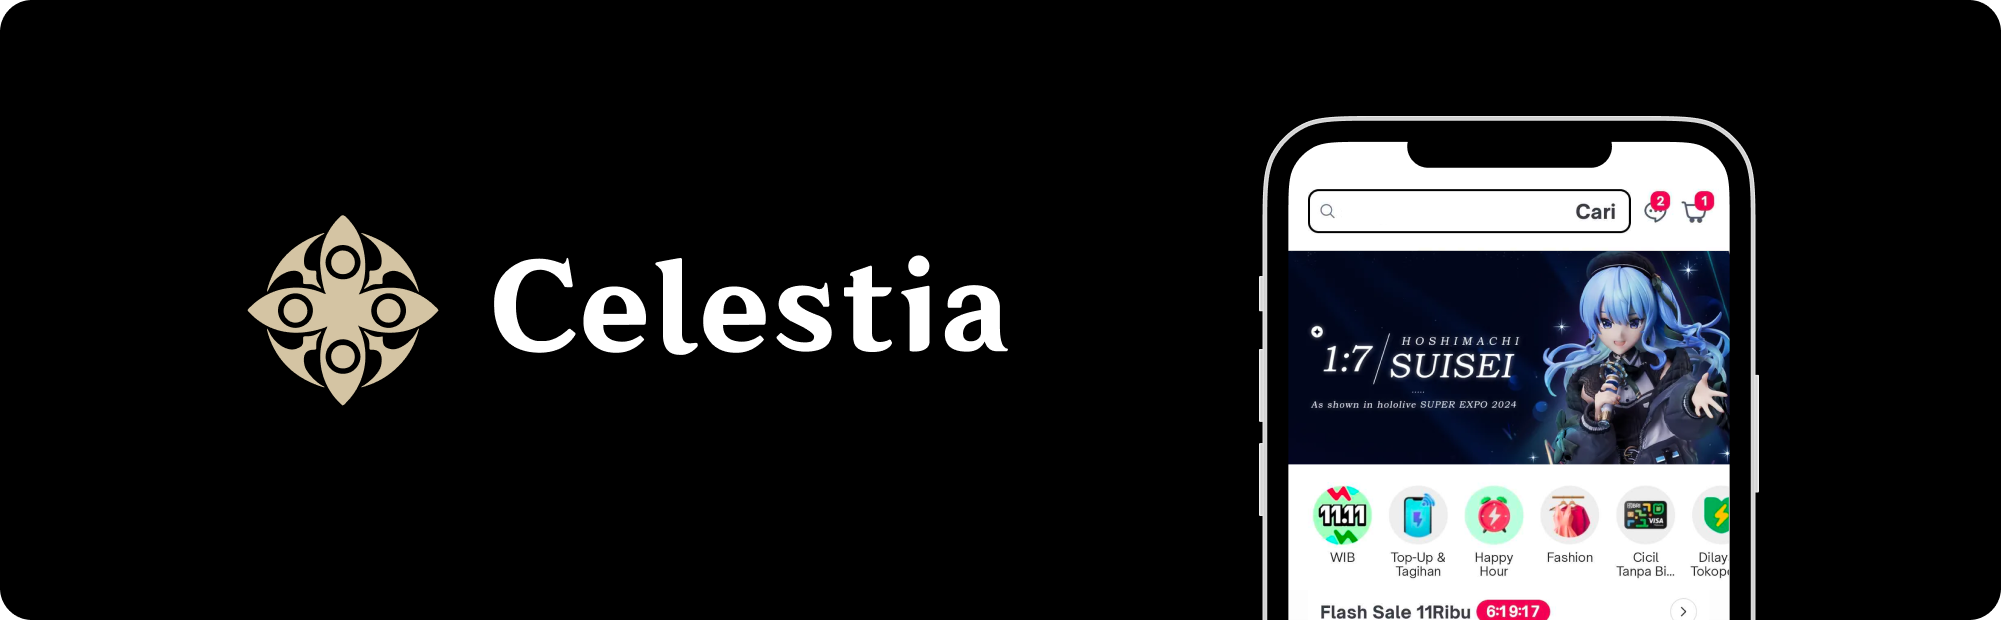
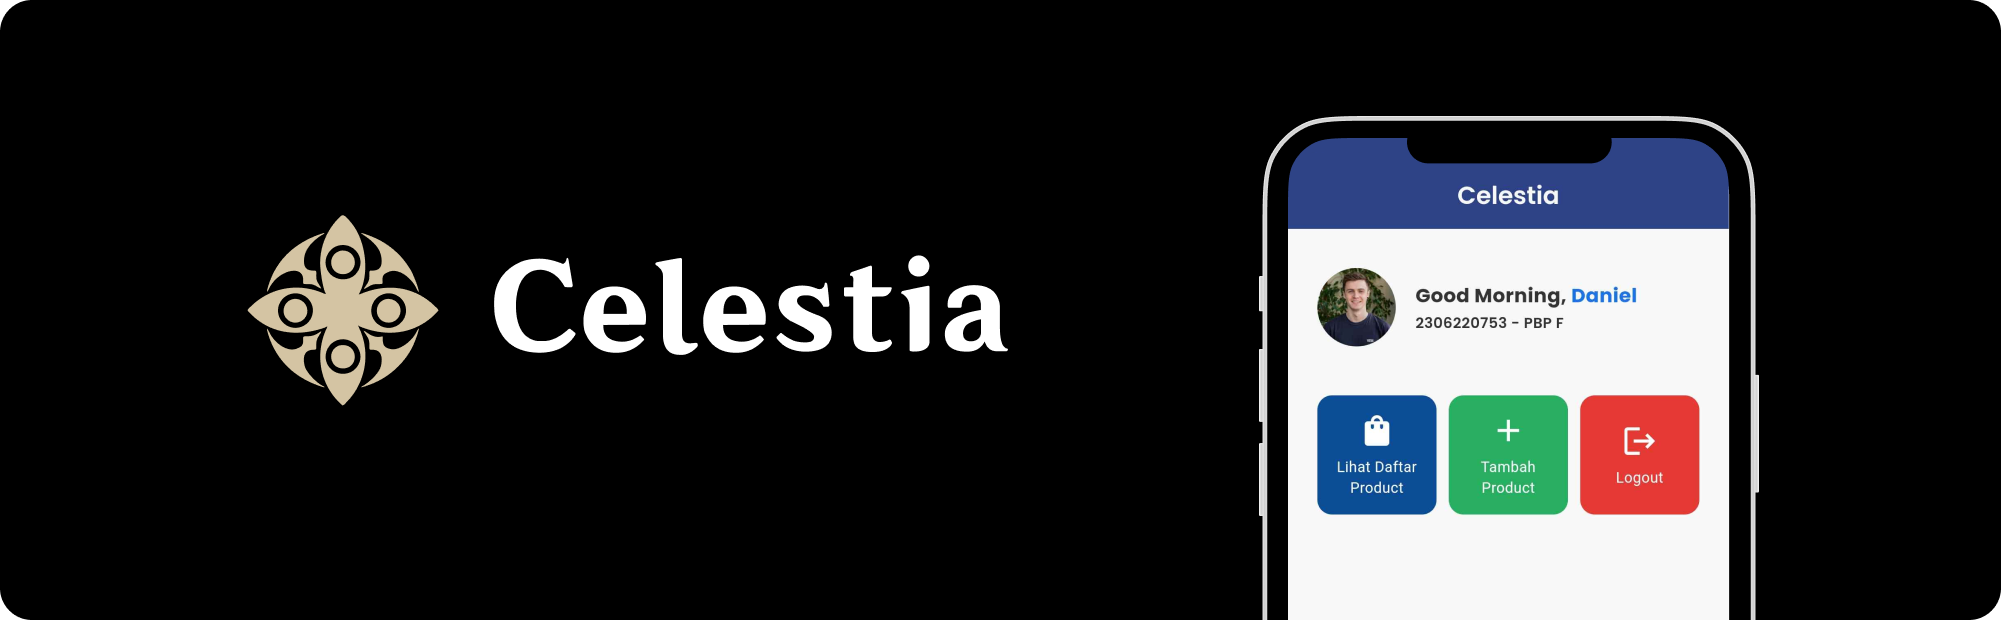
docs: Update

Changed region(s): [[0.6197, 0.2145, 0.8676, 0.95], [0.6507, 0.95, 0.7746, 1.0]]

diff --git a/README.md b/README.md
@@ -4,7 +4,7 @@ Celestia is a Hoyoverse Official Merchandise E-Commerce that offers some product
 
 <br>
 
-> **Note:** <br> This is not an actual online shop for Hoyoverse Merchandise. <br>The mockup design on the banner was taken from [Tokopedia](https://tokopedia.com) Mobile App.
+> **Note:** <br> This is not an actual online shop for Hoyoverse Merchandise.
 
 <br>
 
